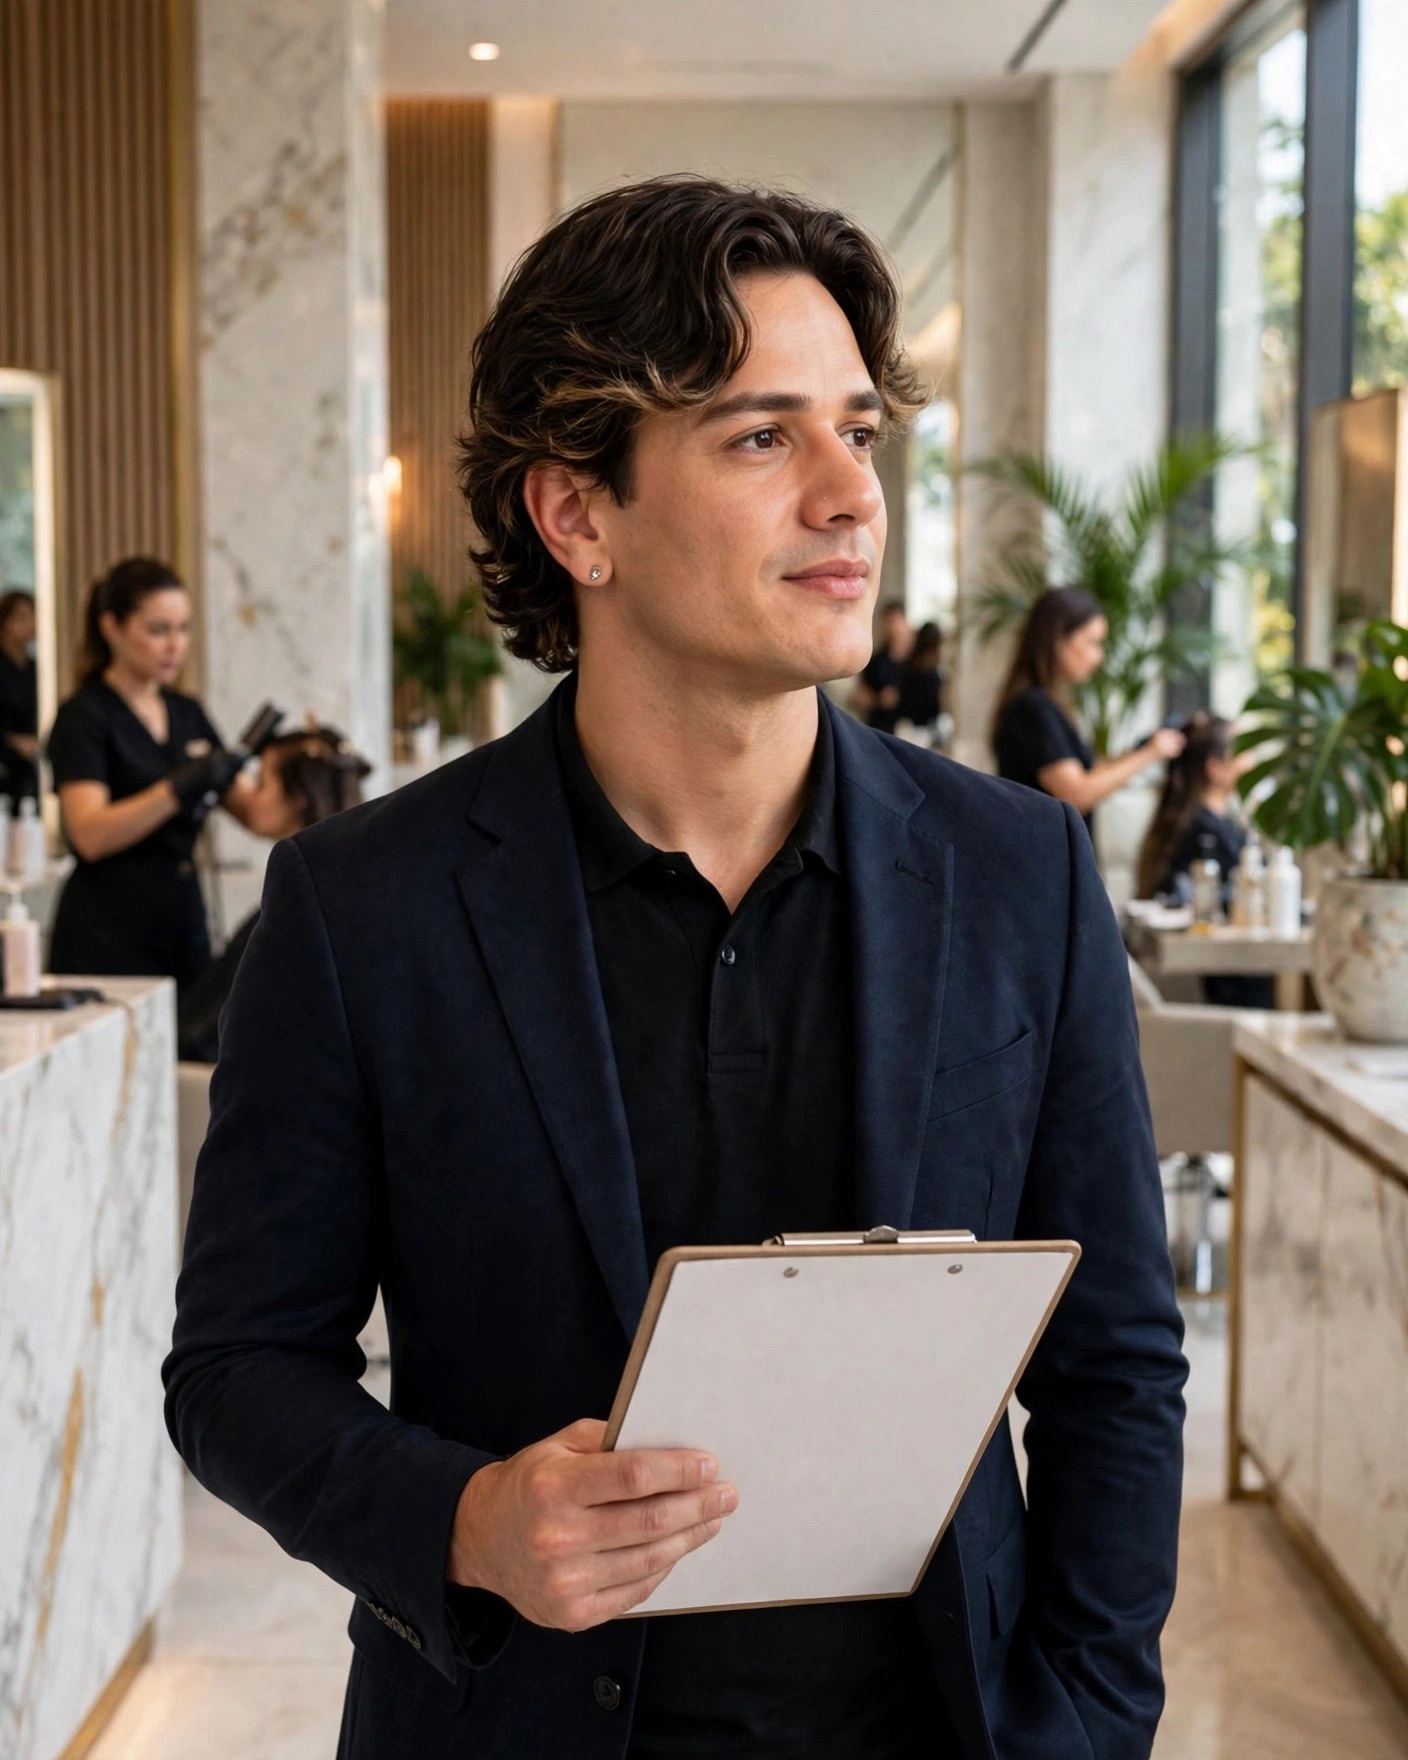
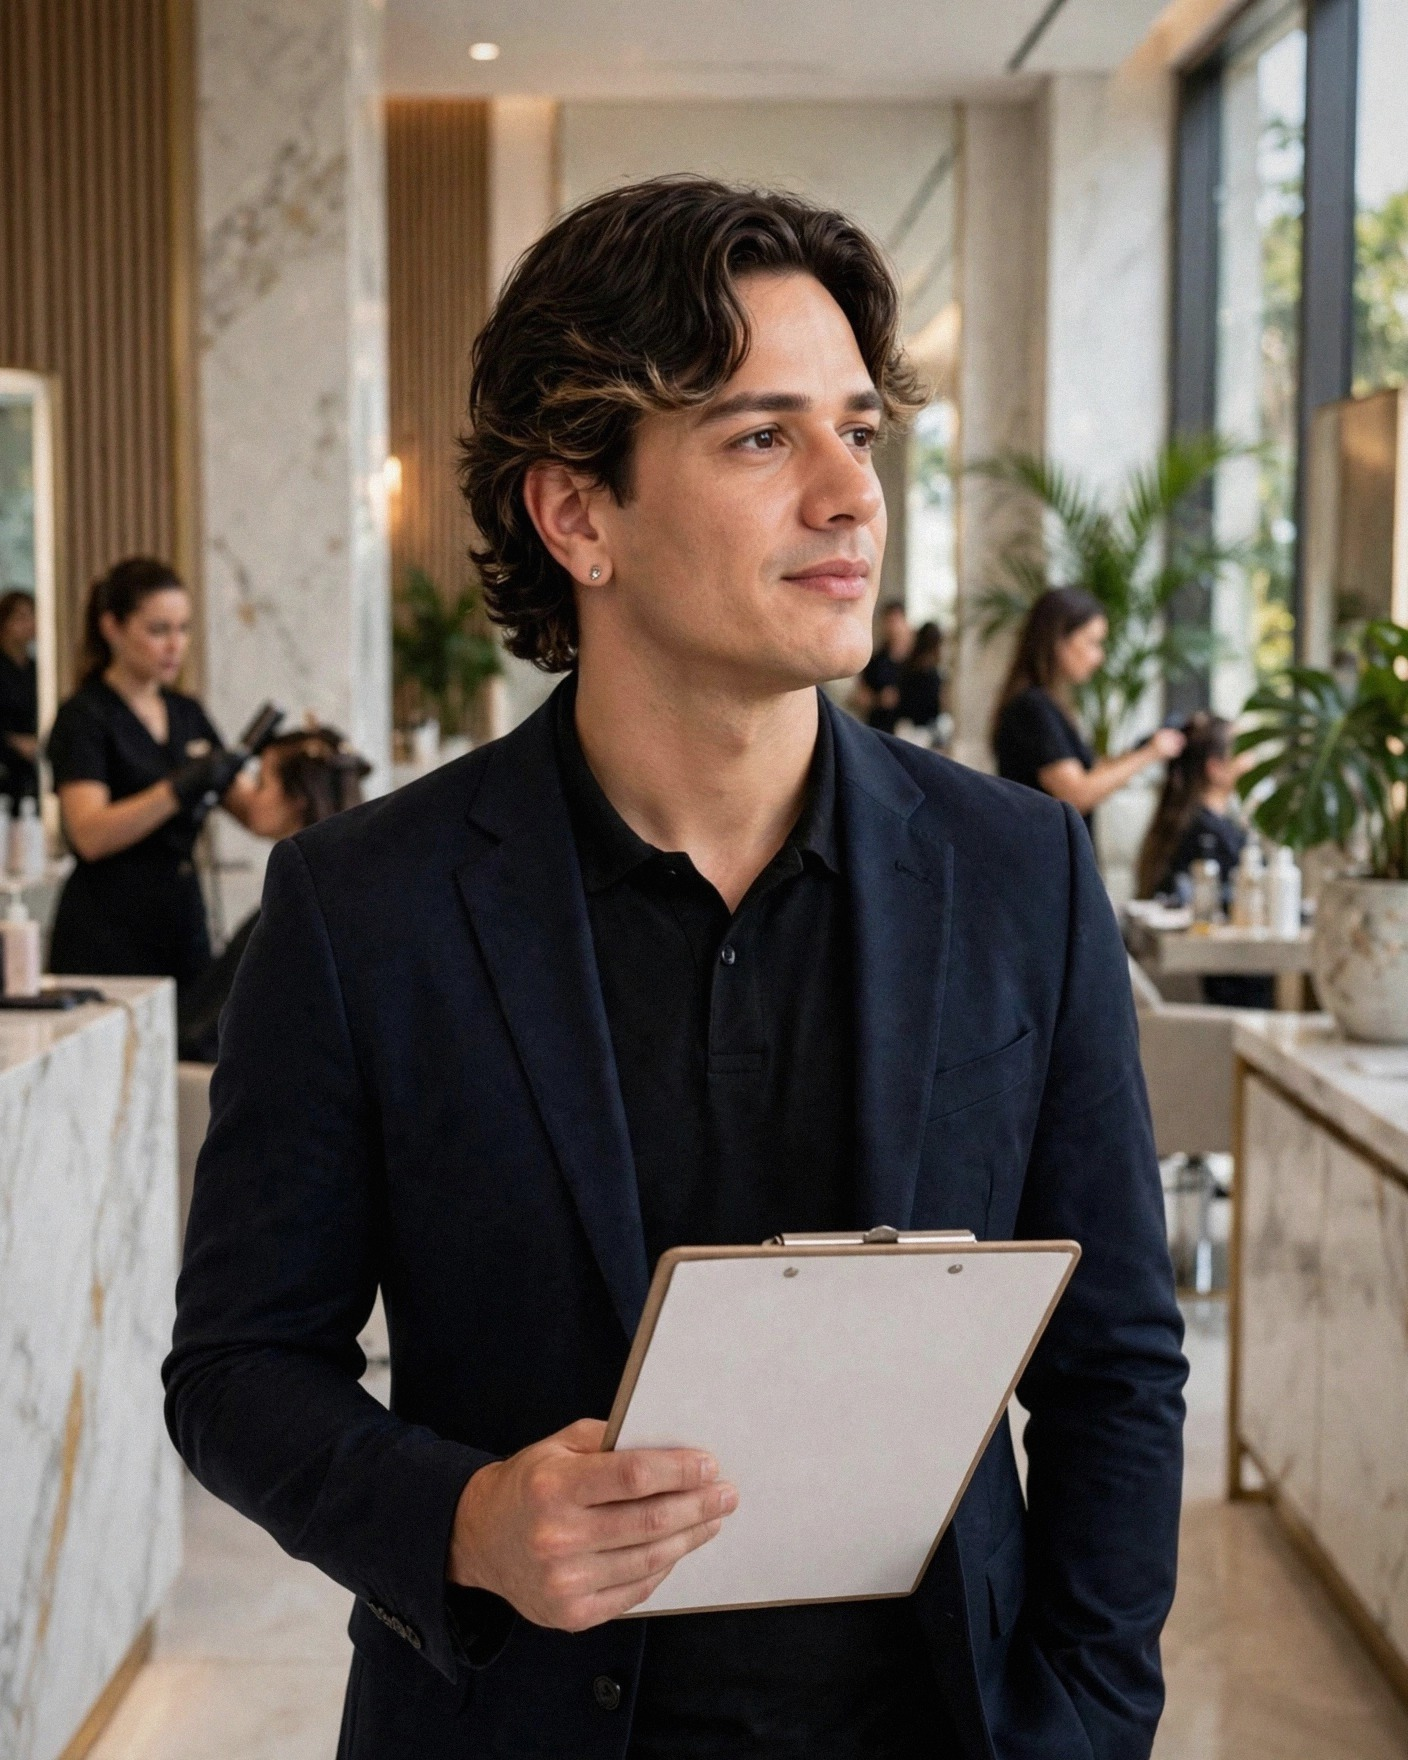
Revisão geral: nomenclatura Propositivo/Modelo, textos redundantes, foto e conferências
- Corrige "Propositiva" para "Propositivo" em todas as ocorrências do
  nome do método/modelo (mantendo "ação propositiva", correto no
  feminino); separa Método Propositivo (a metodologia) de Modelo
  Propositivo (a modalidade de contratação do diagnóstico).
- Renomeia "Consultoria Executiva de Operações" para "Consultoria
  Executiva da Operação" em todas as páginas.
- Remove "Trabalho continuado" (redundante com "Acompanhamento
  contínuo da operação, sob consulta") nos dois cards de preço.
- Home: retira a segunda linha do hero, ajusta frase de "Para quem é"
  (preço não recalculado direito), remove menção à Consultoria
  Executiva de Operações do box da plataforma.
- Método: reescreve o parágrafo sobre a ação propositiva (a condução
  passa a considerar o direcionamento estratégico da empresa, não mais
  "de cima para baixo, alheia à operação"); funde o parágrafo final ao
  anterior; reescreve o Pilar 5 sem citar remuneração, com exemplos
  concretos de resultado do profissional.
- Plataforma: reescreve a copy do Painel de forma mais integrada; novo
  título para o módulo de Treinamentos ("Trilha de formação
  registrada").
- Proposta: remove os textos explicativos abaixo dos botões de
  contratação; adiciona menção a plano de ação individual na leitura
  por profissional/categoria (nos dois locais); corrige "Veja como o
  método pensa em Método" para "...na página Método"; remove menção à
  Consultoria Executiva de Operações no box acima de "Conhecer a BRGX
[…]

diff --git a/proposta.html b/proposta.html
@@ -50,35 +50,33 @@
 
   <div class="plan-grid">
     <div class="plan featured">
-      <h3>Método Propositiva</h3>
+      <h3>Modelo Propositivo</h3>
       <p class="plan-sub">Analisamos a operação, entregamos o plano de ação.</p>
       <div class="plan-price">R$ 3.500<small>Diagnóstico completo em 10 dias</small></div>
       <ul>
         <li>Análise dos 7 pilares da operação</li>
         <li>Uma ação propositiva para cada pilar, com responsável definido</li>
-        <li>Leitura por profissional e por categoria de serviço</li>
+        <li>Leitura por profissional e por categoria de serviço, com plano de ação individual quando necessário</li>
         <li>Plano de ação documentado, organizado por prioridade</li>
       </ul>
       <div class="plan-cta">
-        <a href="https://wa.me/5511990130811?text=Ol%C3%A1%2C+vi+a+proposta+da+BRGX+e+quero+contratar+o+M%C3%A9todo+Propositiva." target="_blank" rel="noopener" class="btn-solid" style="width:100%;justify-content:center">Contratar o diagnóstico &rarr;</a>
-        <p class="plan-note">Checkout ainda não disponível online: a contratação é confirmada diretamente com a gestão pelo WhatsApp.</p>
+        <a href="https://wa.me/5511990130811?text=Ol%C3%A1%2C+vi+a+proposta+da+BRGX+e+quero+contratar+o+Modelo+Propositivo." target="_blank" rel="noopener" class="btn-solid" style="width:100%;justify-content:center">Contratar o diagnóstico &rarr;</a>
       </div>
     </div>
 
     <div class="plan">
-      <h3>Consultoria Executiva de Operações</h3>
+      <h3>Consultoria Executiva da Operação</h3>
       <p class="plan-sub">Acompanhamento contínuo da operação.</p>
-      <div class="plan-price">Sob consulta<small>Trabalho continuado</small></div>
+      <div class="plan-price">Sob consulta</div>
       <ul>
-        <li>Tudo o que está no Método Propositiva</li>
+        <li>Tudo o que está no Modelo Propositivo</li>
         <li>Sessões semanais e reunião estratégica mensal</li>
         <li>Acompanhamento da execução das ações, semana a semana</li>
         <li>Controle de indicadores-chave e análise de desenvolvimento comercial</li>
         <li>Acesso completo à plataforma BRGX durante todo o trabalho</li>
       </ul>
       <div class="plan-cta">
-        <a href="https://wa.me/5511990130811?text=Ol%C3%A1%2C+vi+a+proposta+da+BRGX+e+quero+contratar+a+Consultoria+Executiva+de+Opera%C3%A7%C3%B5es." target="_blank" rel="noopener" class="btn-ghost" style="width:100%;justify-content:center;margin-left:0">Contratar a consultoria &rarr;</a>
-        <p class="plan-note">O valor é confirmado no atendimento, conforme o porte da operação.</p>
+        <a href="https://wa.me/5511990130811?text=Ol%C3%A1%2C+vi+a+proposta+da+BRGX+e+quero+contratar+a+Consultoria+Executiva+da+Opera%C3%A7%C3%A3o." target="_blank" rel="noopener" class="btn-ghost" style="width:100%;justify-content:center;margin-left:0">Contratar a consultoria &rarr;</a>
       </div>
     </div>
   </div>
@@ -99,7 +97,7 @@
   <div class="entrega">
     <div class="entrega-row"><span class="entrega-dot"></span><p><b>Análise dos 7 pilares</b> com leitura do que sustenta e do que trava a operação hoje.</p></div>
     <div class="entrega-row"><span class="entrega-dot"></span><p><b>Uma ação propositiva por pilar</b>, com responsável definido.</p></div>
-    <div class="entrega-row"><span class="entrega-dot"></span><p><b>Leitura por profissional e por categoria de serviço</b>, mostrando onde está a receita e onde ela se perde.</p></div>
+    <div class="entrega-row"><span class="entrega-dot"></span><p><b>Leitura por profissional e por categoria de serviço</b>, mostrando onde está a receita e onde ela se perde, com plano de ação individual quando fizer sentido.</p></div>
     <div class="entrega-row"><span class="entrega-dot"></span><p><b>Plano de ação documentado</b>, organizado por prioridade e pronto para entrar na rotina.</p></div>
   </div>
 </section>
@@ -119,7 +117,7 @@
     <span class="pilar-tag">Retenção</span>
     <span class="pilar-tag">Precificação</span>
   </div>
-  <p class="prop-body">Cada pilar vira uma <strong>ação propositiva</strong> documentada no plano, entregue em <strong>10 dias</strong>. Veja como o método pensa em <a href="metodo.html" style="color:var(--gold);font-weight:600">Método</a>.</p>
+  <p class="prop-body">Cada pilar vira uma <strong>ação propositiva</strong> documentada no plano, entregue em <strong>10 dias</strong>. Veja como o método pensa, na página <a href="metodo.html" style="color:var(--gold);font-weight:600">Método</a>.</p>
 </section>
 
 <div class="div"></div>
@@ -127,7 +125,7 @@
 <section class="sec">
   <span class="ey">A plataforma</span>
   <h2 class="sec-h" style="font-size:clamp(24px,3vw,32px)">Onde o plano vira rotina</h2>
-  <p class="prop-body">A execução acontece dentro da plataforma BRGX, incluída na Consultoria Executiva de Operações.</p>
+  <p class="prop-body">A execução acontece dentro da plataforma BRGX.</p>
   <div style="margin-top:24px">
     <a href="plataforma.html" class="btn-solid">Conhecer a BRGX por dentro &rarr;</a>
   </div>

diff --git a/metodo.html b/metodo.html
@@ -3,8 +3,8 @@
 <head>
 <meta charset="UTF-8">
 <meta name="viewport" content="width=device-width, initial-scale=1.0">
-<title>Método Propositiva · BRGX</title>
-<meta name="description" content="O Método Propositiva e os 7 pilares da operação: liderança, organização, operação, atendimento, performance, retenção e precificação.">
+<title>Método Propositivo · BRGX</title>
+<meta name="description" content="O Método Propositivo e os 7 pilares da operação: liderança, organização, operação, atendimento, performance, retenção e precificação.">
 <link rel="preconnect" href="https://fonts.googleapis.com">
 <link href="https://fonts.googleapis.com/css2?family=Cormorant+Garamond:ital,wght@0,400;0,500;0,600;1,400&family=Inter:wght@400;500;600&family=IBM+Plex+Mono:wght@400;500&display=swap" rel="stylesheet">
 <link rel="stylesheet" href="assets/site.css">
@@ -37,13 +37,13 @@
     <a href="plataforma.html" class="nav-link">Plataforma</a>
     <a href="valores.html" class="nav-link">Valores</a>
     <a href="proposta.html" class="nav-link">Proposta</a>
-    <a href="https://wa.me/5511990130811?text=Ol%C3%A1%2C+vi+o+M%C3%A9todo+Propositiva+e+tenho+interesse.+Podemos+conversar%3F" target="_blank" rel="noopener" class="nav-btn">WhatsApp &rarr;</a>
+    <a href="https://wa.me/5511990130811?text=Ol%C3%A1%2C+vi+o+M%C3%A9todo+Propositivo+e+tenho+interesse.+Podemos+conversar%3F" target="_blank" rel="noopener" class="nav-btn">WhatsApp &rarr;</a>
   </div>
 </nav>
 
 <section class="hero-simple">
   <span class="ey">O método</span>
-  <h1>Método Propositiva</h1>
+  <h1>Método Propositivo</h1>
   <p>Uma leitura completa da operação, feita de dentro dela, que se transforma em plano de ação e acompanhamento da execução.</p>
 </section>
 
@@ -57,8 +57,7 @@
   <span class="ey">Como o método pensa</span>
   <h2 class="sec-h">Um diagnóstico que se transforma em ação.</h2>
   <p class="metodo-body">O diagnóstico começa observando a operação como ela é no dia a dia: o que trava, o que depende de você, o que já funciona e não está documentado. Essa leitura acontece sobre <strong>7 pilares</strong> que sustentam qualquer operação de beleza de alto padrão.</p>
-  <p class="metodo-body">Cada pilar analisado gera uma <strong>ação propositiva</strong>: uma decisão que incorpora a realidade, a experiência e a visão de quem opera, mas é construída e conduzida pela BRGX. A condução é de cima para baixo, e nunca alheia à operação: analisar, estruturar e decidir considerando quem está no dia a dia é o próprio trabalho da consultoria.</p>
-  <p class="metodo-body">O conjunto dessas ações forma o plano da operação. A partir daí, o plano segue com a sua equipe, ou segue com a BRGX dentro da execução, até virar rotina.</p>
+  <p class="metodo-body">Cada pilar analisado gera uma <strong>ação propositiva</strong>: uma decisão que incorpora a realidade, a experiência e a visão de quem opera, e que é construída considerando também o direcionamento estratégico da empresa — o que a direção pretende alcançar. É esse cruzamento entre intenção e realidade que transforma objetivo em ação prática para a operação. O conjunto dessas ações forma o plano da operação.</p>
 </section>
 
 <div class="div"></div>
@@ -87,7 +86,7 @@
     </div>
     <div class="pillar-item">
       <div class="pillar-name"><span class="n">05</span><h3>Performance</h3></div>
-      <p>A remuneração estimula comportamentos que nem sempre correspondem ao que a operação precisa: retenção, produtividade, recorrência e resultado.</p>
+      <p>O resultado do profissional aparece em sinais concretos: crescimento na base de clientes, retorno e recompra, capacidade de gerar novas vendas para quem já é cliente, força de atração e qualidade percebida no atendimento. Acompanhar essa evolução é o que permite valorizar e estimular os comportamentos alinhados à cultura e à direção da operação.</p>
     </div>
     <div class="pillar-item">
       <div class="pillar-name"><span class="n">06</span><h3>Retenção</h3></div>
@@ -110,7 +109,7 @@
     <span class="ey">Próximo passo</span>
     <h2 class="cta-h">Você quer resolver isso na sua operação?</h2>
     <p class="cta-p">Sem formulário, sem apresentação.</p>
-    <a href="https://wa.me/5511990130811?text=Ol%C3%A1%2C+vi+o+M%C3%A9todo+Propositiva+e+quero+resolver+isso+na+minha+opera%C3%A7%C3%A3o." target="_blank" rel="noopener" class="btn-solid">Falar no WhatsApp &rarr;</a>
+    <a href="https://wa.me/5511990130811?text=Ol%C3%A1%2C+vi+o+M%C3%A9todo+Propositivo+e+quero+resolver+isso+na+minha+opera%C3%A7%C3%A3o." target="_blank" rel="noopener" class="btn-solid">Falar no WhatsApp &rarr;</a>
   </div>
 </div>
 

diff --git a/index.html b/index.html
@@ -4,7 +4,7 @@
 <meta charset="UTF-8">
 <meta name="viewport" content="width=device-width, initial-scale=1.0">
 <title>BRGX · Consultoria Executiva para Operações de Beleza em SP e RJ</title>
-<meta name="description" content="Consultoria executiva para operações de beleza de alto padrão em São Paulo e Rio de Janeiro. Método Propositiva: análise dos 7 pilares, plano de ação e acompanhamento da execução.">
+<meta name="description" content="Consultoria executiva para operações de beleza de alto padrão em São Paulo e Rio de Janeiro. Método Propositivo: análise dos 7 pilares, plano de ação e acompanhamento da execução.">
 <link rel="preconnect" href="https://fonts.googleapis.com">
 <link href="https://fonts.googleapis.com/css2?family=Cormorant+Garamond:ital,wght@0,400;0,500;0,600;1,400&family=Inter:wght@400;500;600&family=IBM+Plex+Mono:wght@400;500&display=swap" rel="stylesheet">
 <link rel="stylesheet" href="assets/site.css">
@@ -82,7 +82,6 @@
 <section class="hero">
   <div>
     <h1 class="hero-h1">Método construído na prática de alta performance para transformar direção e execução em resultado.</h1>
-    <h2 class="hero-h2">Quando você se afasta, a operação não pode parar.</h2>
     <p class="hero-p">Consultoria executiva para operações de beleza de alto padrão. 15 anos estruturando gestão em São Paulo e Rio de Janeiro.</p>
     <p class="hero-note">Diego Borges</p>
     <div>
@@ -102,7 +101,7 @@
     <div class="pq-item"><span class="pq-dot"></span><p>O faturamento varia demais de mês pra mês e você não consegue prever caixa com segurança.</p></div>
     <div class="pq-item"><span class="pq-dot"></span><p>Quando você se afasta, a operação perde padrão: tudo depende da sua presença o tempo todo.</p></div>
     <div class="pq-item"><span class="pq-dot"></span><p>A equipe troca com frequência e cada profissional novo atende de um jeito diferente.</p></div>
-    <div class="pq-item"><span class="pq-dot"></span><p>O preço dos serviços não foi recalculado há tempo e você desconfia que não cobre o custo real.</p></div>
+    <div class="pq-item"><span class="pq-dot"></span><p>O preço dos serviços não foi recalculado direito e você desconfia que não cobre o custo real.</p></div>
     <div class="pq-item"><span class="pq-dot"></span><p>Cliente some e não existe um processo para trazê-lo de volta.</p></div>
   </div>
   <p style="font-size:15.5px;color:var(--sub);line-height:1.7;margin-top:28px">Se você reconheceu ao menos um desses pontos, já vale a conversa.</p>
@@ -144,7 +143,7 @@
   <span class="ey">Tecnologia aplicada à execução</span>
   <h2 class="sec-h">A plataforma BRGX</h2>
   <div class="platform-teaser">
-    <p>O mesmo método que já rodou em operação real, agora também como plataforma: painel, treinamentos, procedimentos e distribuição de clientes, incluídos na Consultoria Executiva de Operações.</p>
+    <p>O mesmo método que já rodou em operação real, agora também como plataforma: painel, treinamentos, procedimentos e distribuição de clientes.</p>
     <a href="plataforma.html" class="btn-solid">Ver os módulos &rarr;</a>
   </div>
 </section>
@@ -162,15 +161,15 @@
 
   <div class="plan-grid">
     <div class="plan featured">
-      <h3>Método Propositiva</h3>
+      <h3>Modelo Propositivo</h3>
       <p class="plan-sub">Analisamos a operação, entregamos o plano de ação.</p>
       <div class="plan-price">R$ 3.500<small>Diagnóstico completo em 10 dias</small></div>
     </div>
 
     <div class="plan">
-      <h3>Consultoria Executiva de Operações</h3>
+      <h3>Consultoria Executiva da Operação</h3>
       <p class="plan-sub">Acompanhamento contínuo da operação.</p>
-      <div class="plan-price">Sob consulta<small>Trabalho continuado</small></div>
+      <div class="plan-price">Sob consulta</div>
     </div>
   </div>
 

diff --git a/plataforma.html b/plataforma.html
@@ -59,7 +59,7 @@
 
 <section class="sec" style="padding-top:0;padding-bottom:16px">
   <div class="arch-note">
-    <p>Acesso completo na Consultoria Executiva de Operações. No Método Propositiva, acesso operacional temporário para a coleta do diagnóstico.</p>
+    <p>Acesso completo na Consultoria Executiva da Operação. No Modelo Propositivo, acesso operacional temporário para a coleta do diagnóstico.</p>
   </div>
 </section>
 
@@ -67,7 +67,7 @@
   <div>
     <span class="mod-num">01 · Painel</span>
     <h2>Visão geral do dia</h2>
-    <p>Rotina, execuções e indicadores-chave em um só lugar. Cronogramas e matriz de ativação já fazem parte do painel.</p>
+    <p>Visão integrada da operação: rotina, execuções, indicadores-chave, cronogramas, matriz de ativação e playbook comercial, com a evolução dos resultados sempre à vista — o que está sendo feito e o que está sendo alcançado.</p>
   </div>
   <div class="mod-shot"><div class="frame-dark"><img src="assets/plataforma-brgx-painel.png" alt="Painel da plataforma BRGX"></div></div>
 </div>
@@ -75,7 +75,7 @@
 <div class="mod-block rev">
   <div>
     <span class="mod-num">02 · Treinamentos</span>
-    <h2>Formação com rastreabilidade</h2>
+    <h2>Trilha de formação registrada</h2>
     <p>Conteúdo por trilhas, com progressão e avaliações. O colaborador avança nível a nível, do fundamento à governança.</p>
   </div>
   <div class="mod-shot"><div class="frame-dark"><img src="assets/plataforma-brgx-treinamentos.png" alt="Módulo de Treinamentos da plataforma BRGX"></div></div>
